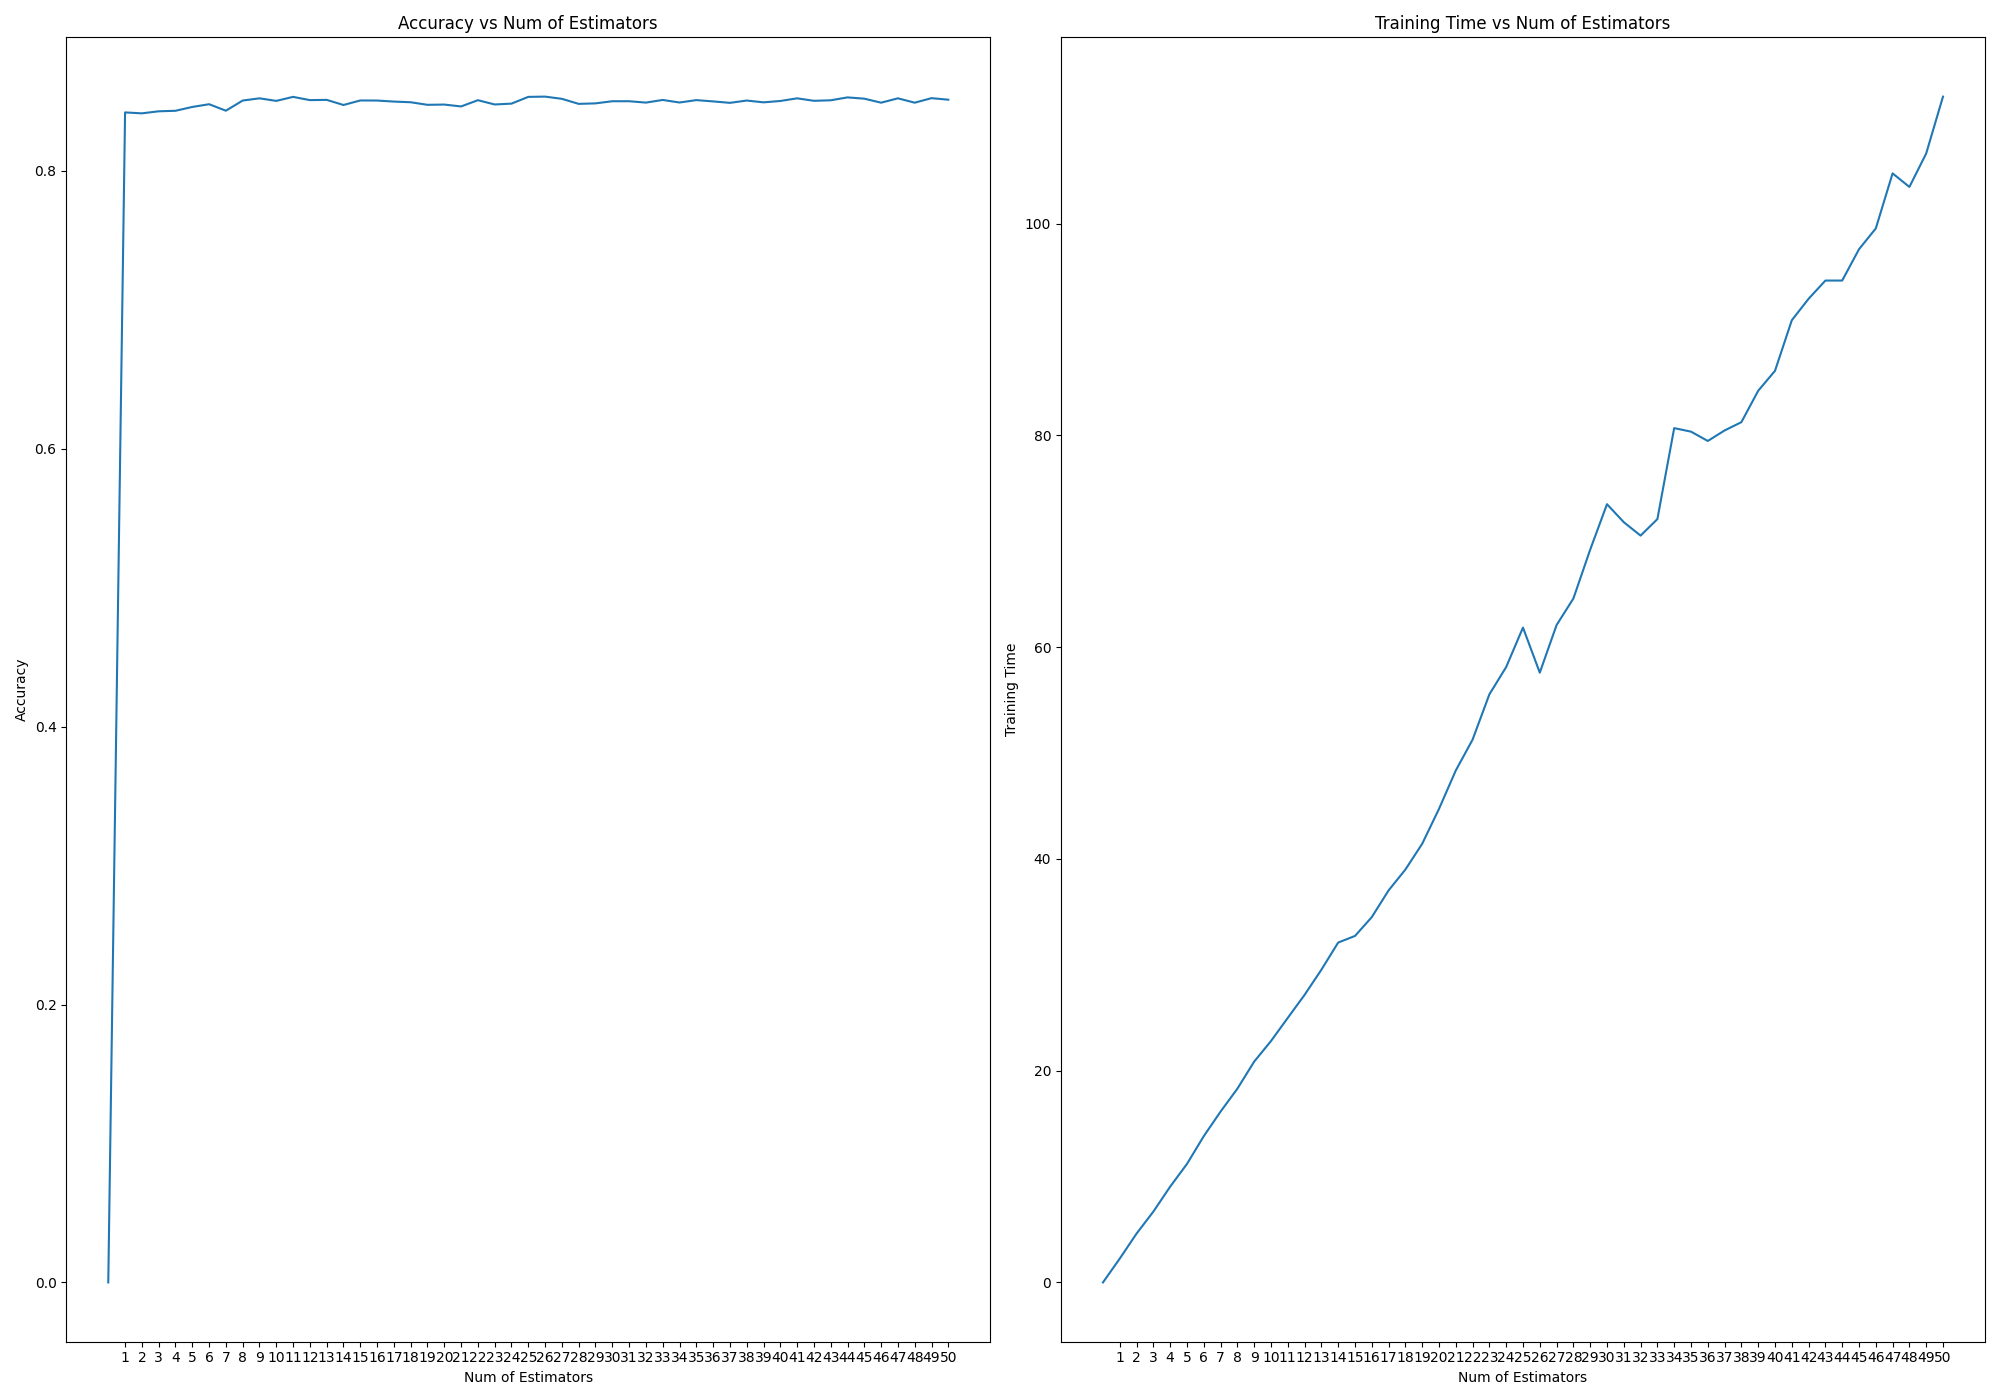
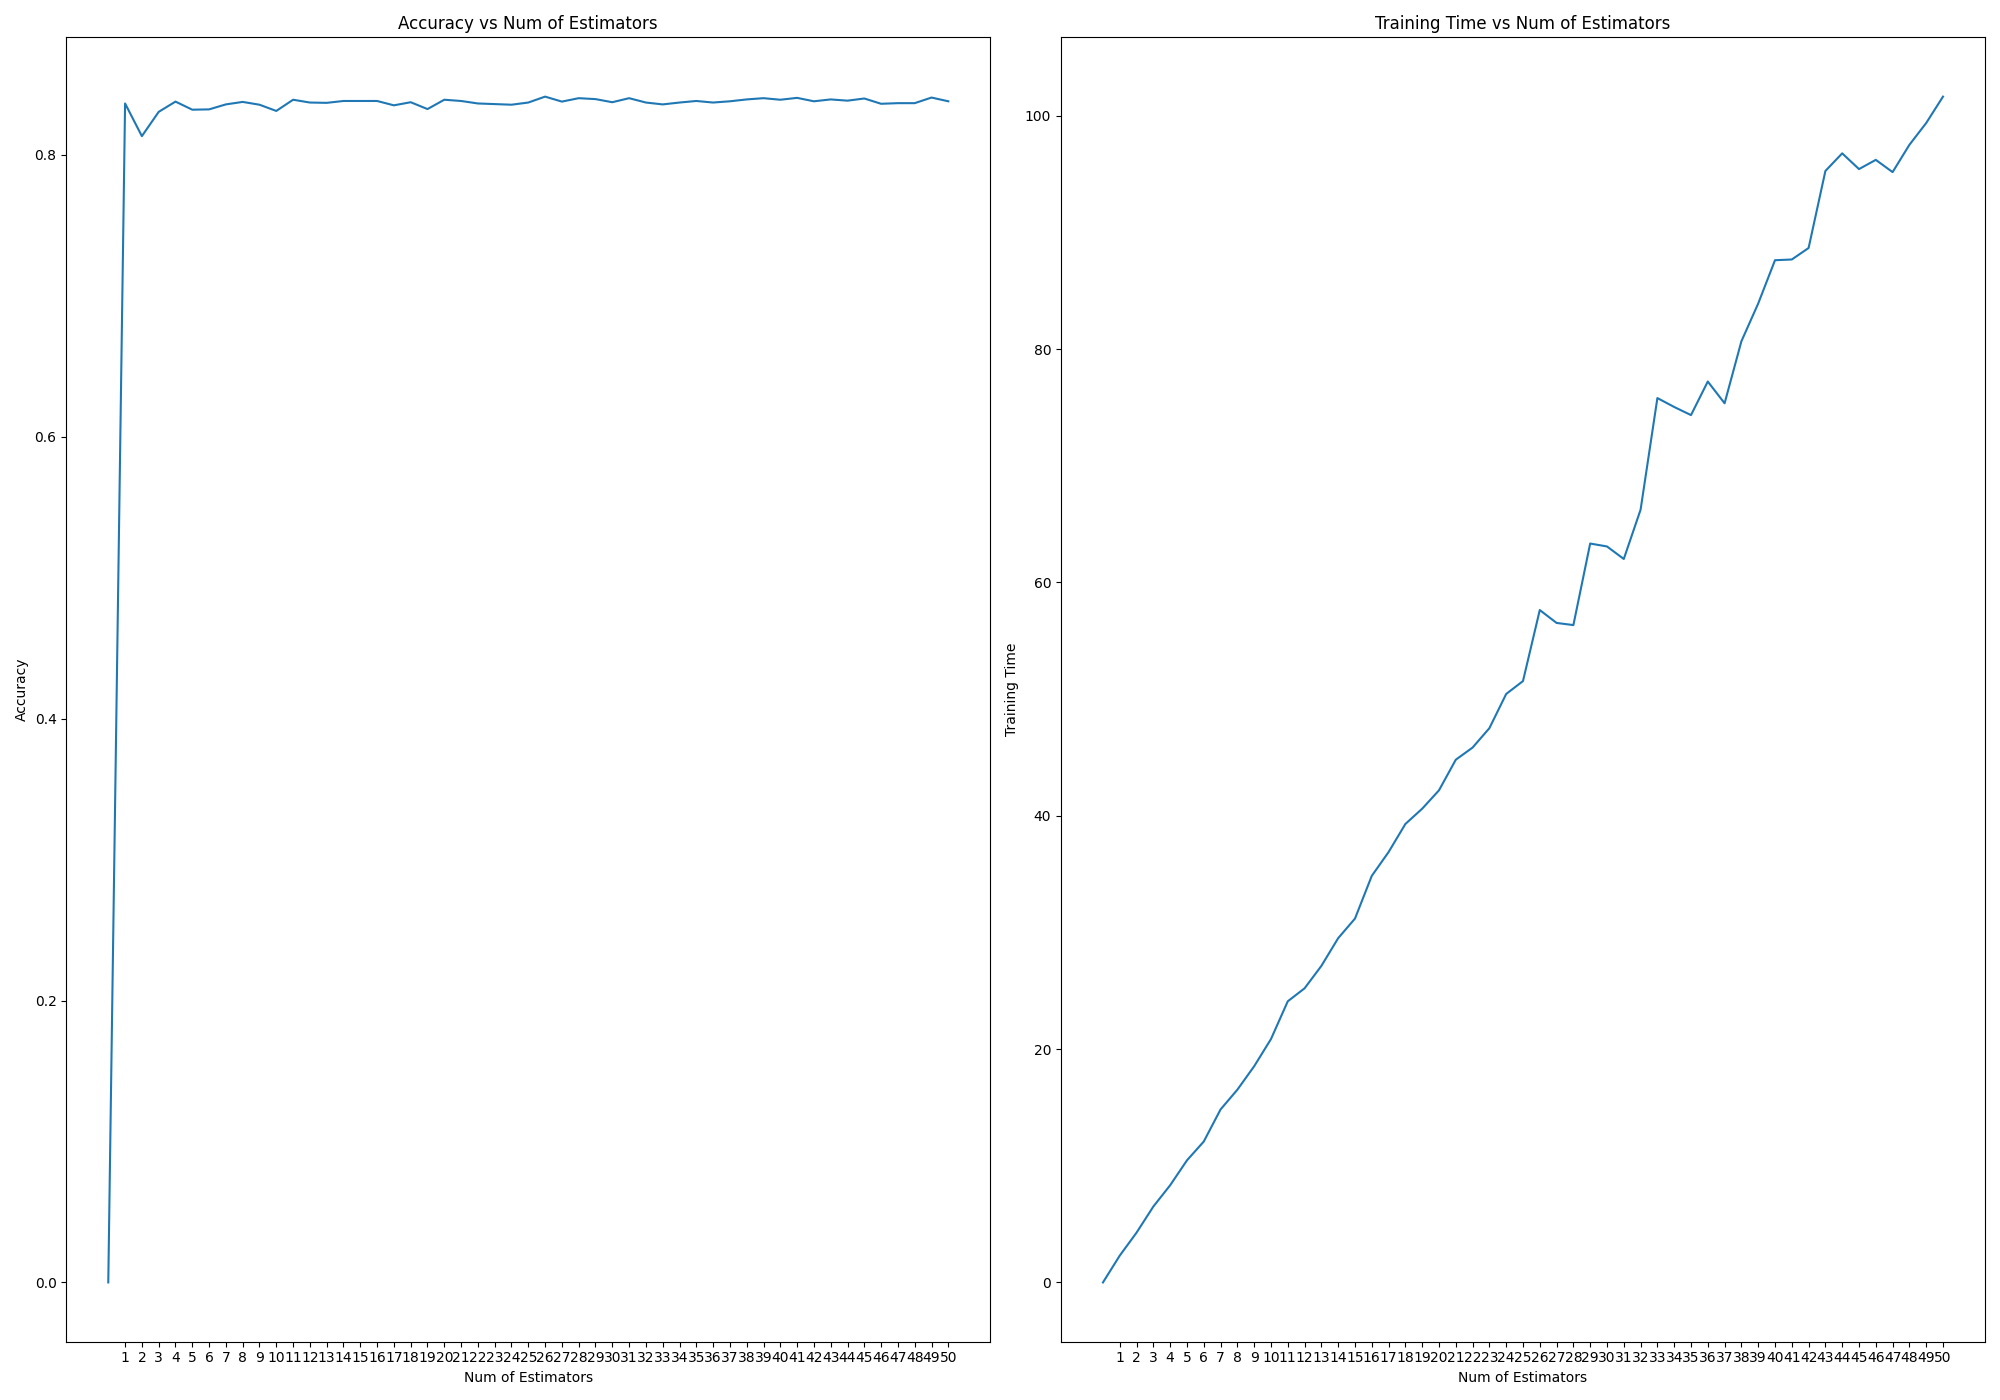
feat: add validation phrase before test the model on test dataset (#6)

diff --git a/main.py b/main.py
@@ -1,7 +1,9 @@
 import sys
 import time
 
+import pandas as pd
 from matplotlib import pyplot as plt
+from sklearn.model_selection import train_test_split
 
 import utils
 from decision_tree import DecisionTree
@@ -33,6 +35,57 @@ def plot_performance_and_speed(x_label, x_list, x_ticks, accuracy_list, training
     plt.show()
 
 
+def fine_tune_model(features_train: pd.DataFrame, target_train: pd.DataFrame, features_validation: pd.DataFrame,
+                    target_validation: pd.DataFrame):
+    dt_max_depth = [0]
+    dt_accuracy = [0]
+    dt_training_time = [0]
+    for max_depth in range(1, 21):
+        dt = DecisionTree(features=features_train, target=target_train, max_depth=max_depth)
+        print("training DecisionTree( max_depth=", max_depth, ") ...")
+        start = time.time()
+        dt.fit()
+        end = time.time()
+        elapsed_time = end - start
+        print("elapsed time for training:", elapsed_time, "sec")
+        print("evaluating DecisionTree( max_depth=", max_depth, ") ...")
+        accuracy = dt.evaluate(features_validation, target_validation)
+        dt_max_depth.append(max_depth)
+        dt_accuracy.append(accuracy)
+        dt_training_time.append(elapsed_time)
+
+    plot_performance_and_speed(x_label="Max Depth", x_list=dt_max_depth, accuracy_list=dt_accuracy,
+                               training_time_list=dt_training_time, x_ticks=range(1, 21),
+                               file_name="./figures/decision_tree_performance_&_speed.png")
+
+    rf_n_estimators = [0]
+    rf_accuracy = [0]
+    rf_training_time = [0]
+    sample_frac = 0.1
+    max_depth = 5
+    for n_estimators in range(1, 51):
+        rf = RandomForest(features=features_train, target=target_train, n_estimators=n_estimators,
+                          sample_frac=sample_frac, max_depth=max_depth)
+        print("training RandomForest( n_estimators=", n_estimators, ", sample_frac=",
+              sample_frac, ", max_depth=", max_depth, ") ...")
+        start = time.time()
+        rf.fit()
+        end = time.time()
+        elapsed_time = end - start
+        print("elapsed time for training:", elapsed_time, "sec")
+        print("evaluating RandomForest( n_estimators=", n_estimators, ", sample_frac=",
+              sample_frac, ", max_depth=", max_depth, ") ...")
+        accuracy = rf.evaluate(features_validation, target_validation)
+
+        rf_n_estimators.append(n_estimators)
+        rf_accuracy.append(accuracy)
+        rf_training_time.append(elapsed_time)
+
+    plot_performance_and_speed(x_label="Num of Estimators", x_list=rf_n_estimators, accuracy_list=rf_accuracy,
+                               training_time_list=rf_training_time, x_ticks=range(1, 51),
+                               file_name="./figures/random_forest_performance_&_speed_against_n_estimators.png")
+
+
 if __name__ == "__main__":
     if sys.version_info[0:2] != (3, 11):
         raise Exception("Requires python 3.11")
@@ -49,57 +102,25 @@ if __name__ == "__main__":
     df_test = feature_engineering(df_test)
     df_test["income"] = df_test["income"].map({"<=50K.": 0, ">50K.": 1})
 
-    # encode both train dataset and test dataset
+    # encode categorical attributes for both original dataset and test dataset
+    # this is to ensure the same encoding mapping applies to test dataset
     utils.encode_values(cols=["workclass", "education", "marital-status", "occupation",
                               "relationship", "race", "sex", "native-country"], train_df=df, test_df=df_test)
 
-    x_train, y_train = split_x_y(df)
+    x, y = split_x_y(df)
+    x_train, x_val, y_train, y_val = train_test_split(x, y, test_size=0.2, random_state=0)
+
+    # try to find the optimal parameters by iterating the parameters within a range and plot the figures
+    # observe the plots in terms of accuracy and training time to determine the optimal parameter candidate
+    # fine_tune_model(x_train, y_train, x_val, y_val)
+
+    # prepare the Random Forest Classifier to perform predications
+    # with optimal parameters that selected from previous feature tuning
+    optimal_rf = RandomForest(features=x_train, target=y_train, n_estimators=8,
+                              sample_frac=0.1, max_depth=6)
+
     x_test, y_test = split_x_y(df_test)
-
-    dt_max_depth = [0]
-    dt_accuracy = [0]
-    dt_training_time = [0]
-    for max_depth in range(1, 21):
-        dt = DecisionTree(features=x_train, target=y_train, max_depth=max_depth)
-        print("training DecisionTree( max_depth=", max_depth, ") ...")
-        start = time.time()
-        dt.fit()
-        end = time.time()
-        elapsed_time = end - start
-        print("elapsed time for training:", elapsed_time, "sec")
-        print("evaluating DecisionTree( max_depth=", max_depth, ") ...")
-        accuracy = dt.evaluate(x_test, y_test)
-        dt_max_depth.append(max_depth)
-        dt_accuracy.append(accuracy)
-        dt_training_time.append(elapsed_time)
-
-    plot_performance_and_speed(x_label="Max Depth", x_list=dt_max_depth, accuracy_list=dt_accuracy,
-                               training_time_list=dt_training_time, x_ticks=range(1, 21),
-                               file_name="./figures/decision_tree_performance_&_speed.png")
-
-    rf_n_estimators = [0]
-    rf_accuracy = [0]
-    rf_training_time = [0]
-    sample_frac = 0.1
-    max_depth = 5
-    for n_estimators in range(1, 51):
-        rf = RandomForest(features=x_train, target=y_train, n_estimators=n_estimators,
-                          sample_frac=sample_frac, max_depth=max_depth)
-        print("training RandomForest( n_estimators=", n_estimators, ", sample_frac=",
-              sample_frac, ", max_depth=", max_depth, ") ...")
-        start = time.time()
-        rf.fit()
-        end = time.time()
-        elapsed_time = end - start
-        print("elapsed time for training:", elapsed_time, "sec")
-        print("evaluating RandomForest( n_estimators=", n_estimators, ", sample_frac=",
-              sample_frac, ", max_depth=", max_depth, ") ...")
-        accuracy = rf.evaluate(x_test, y_test)
-
-        rf_n_estimators.append(n_estimators)
-        rf_accuracy.append(accuracy)
-        rf_training_time.append(elapsed_time)
-
-    plot_performance_and_speed(x_label="Num of Estimators", x_list=rf_n_estimators, accuracy_list=rf_accuracy,
-                               training_time_list=rf_training_time, x_ticks=range(1, 51),
-                               file_name="./figures/random_forest_performance_&_speed_against_n_estimators.png")
+    print("train Random Forest with optimal parameters ...")
+    optimal_rf.fit()
+    print("performing prediction on test dataset")
+    optimal_rf.evaluate(x_test, y_test)
